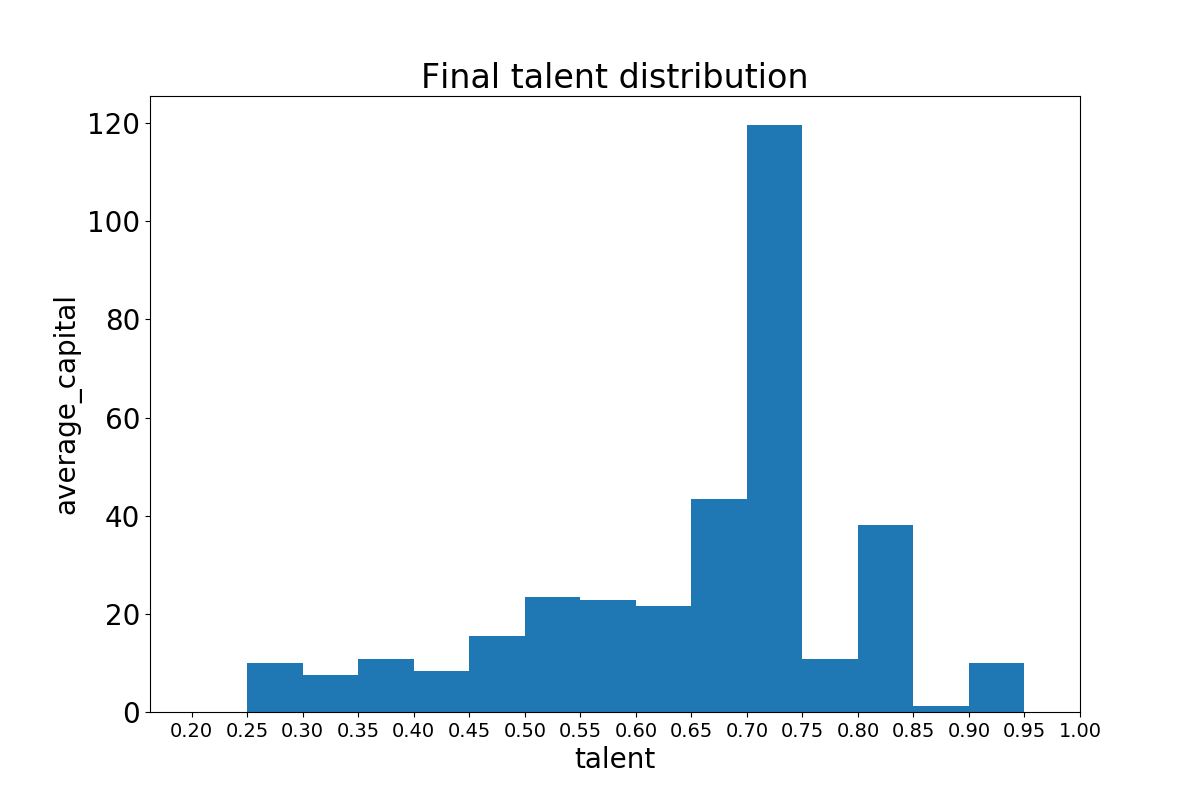
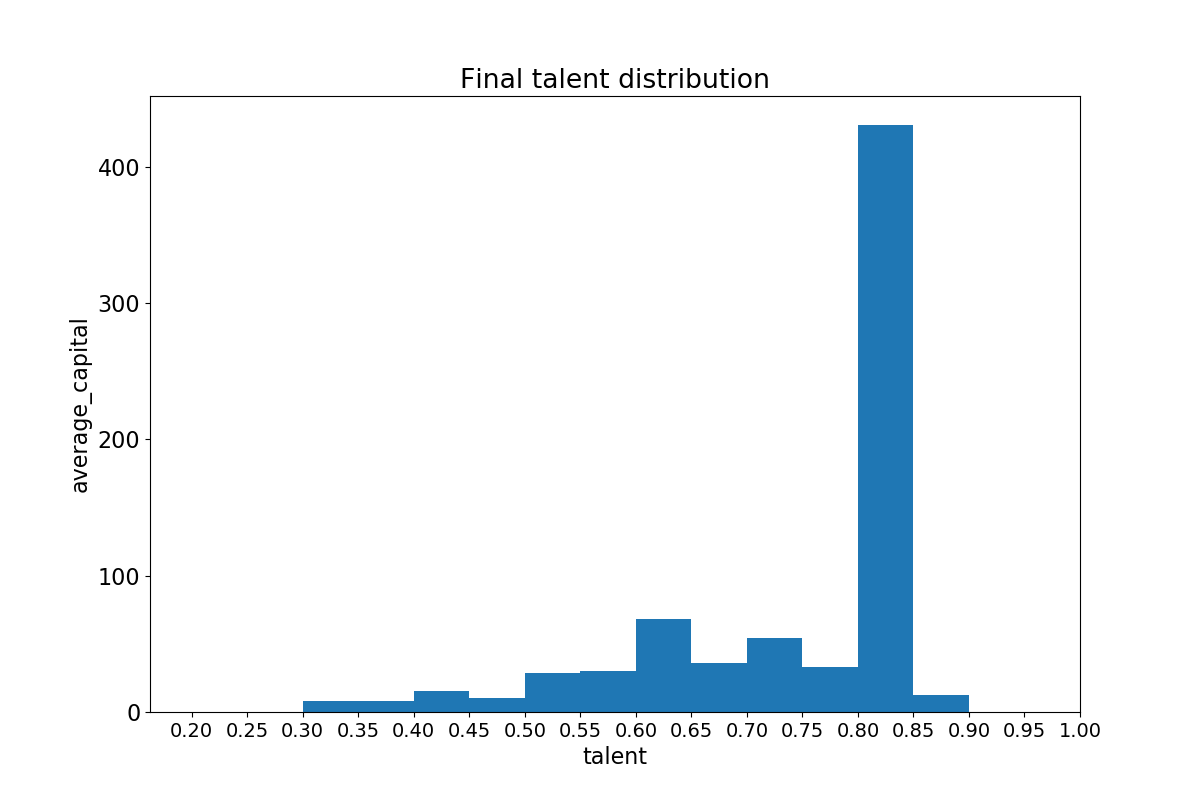
add static capital talent range figure

diff --git a/hw1/draw_result.py b/hw1/draw_result.py
@@ -131,7 +131,7 @@ def static_avg_capital_talent(cap_set, tal_set, savepath, image_format):
     plt.xlabel('talent')
     plt.ylabel('average_capital')
     plt.title('Final talent distribution')
-    plt.savefig(savepath + 'static_capital_incident' + image_format)
+    plt.savefig(savepath + 'static_capital_talent_range' + image_format)
     plt.draw()
 
 
@@ -263,10 +263,10 @@ def main():
     capital_set = np.load('./result/final_capital_set.npy')
     talent_set = np.load('./result/talent_set.npy')
 
-    static_talent(talent_set, './result/', '.png')
-    static_capital_individual_num(capital_set, './result/', '.png')
+    # static_talent(talent_set, './result/', '.png')
+    # static_capital_individual_num(capital_set, './result/', '.png')
     static_avg_capital_talent(capital_set, talent_set, './result/', '.png')
-    select_richest_poorest(talent_set, capital_set, )
+    # select_richest_poorest(talent_set, capital_set, )
 
 if __name__ == '__main__':
     main()
